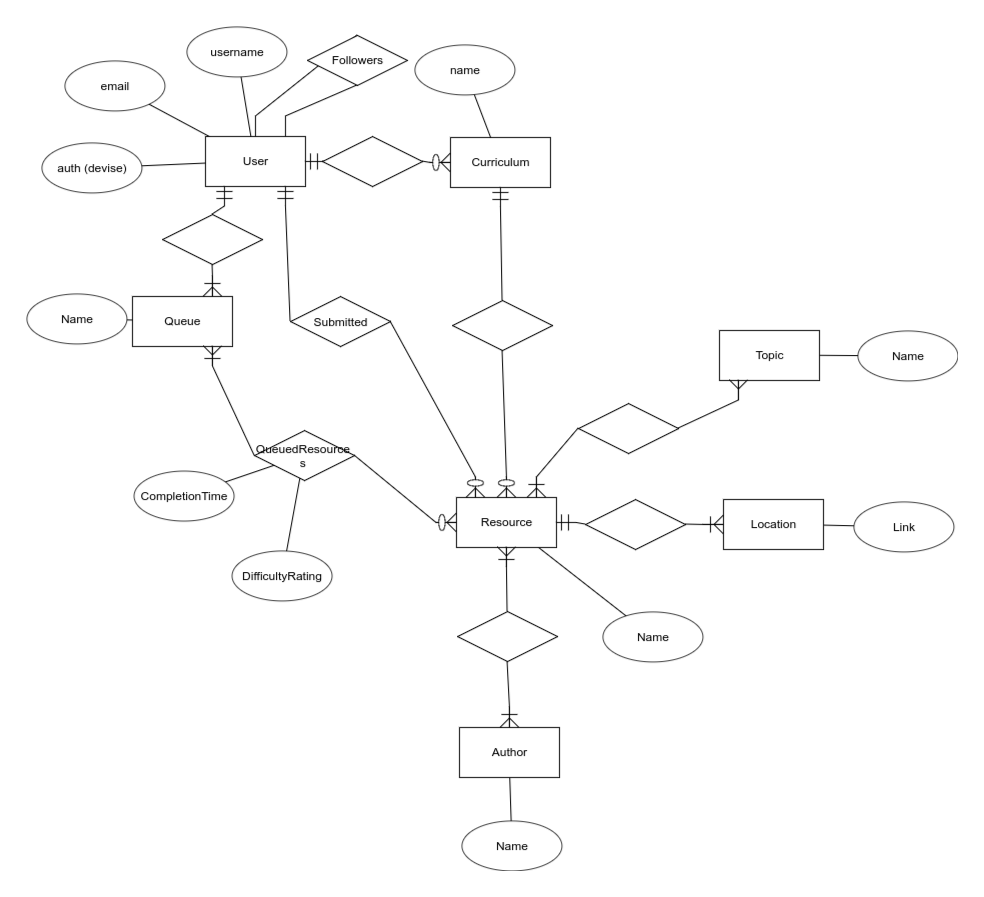
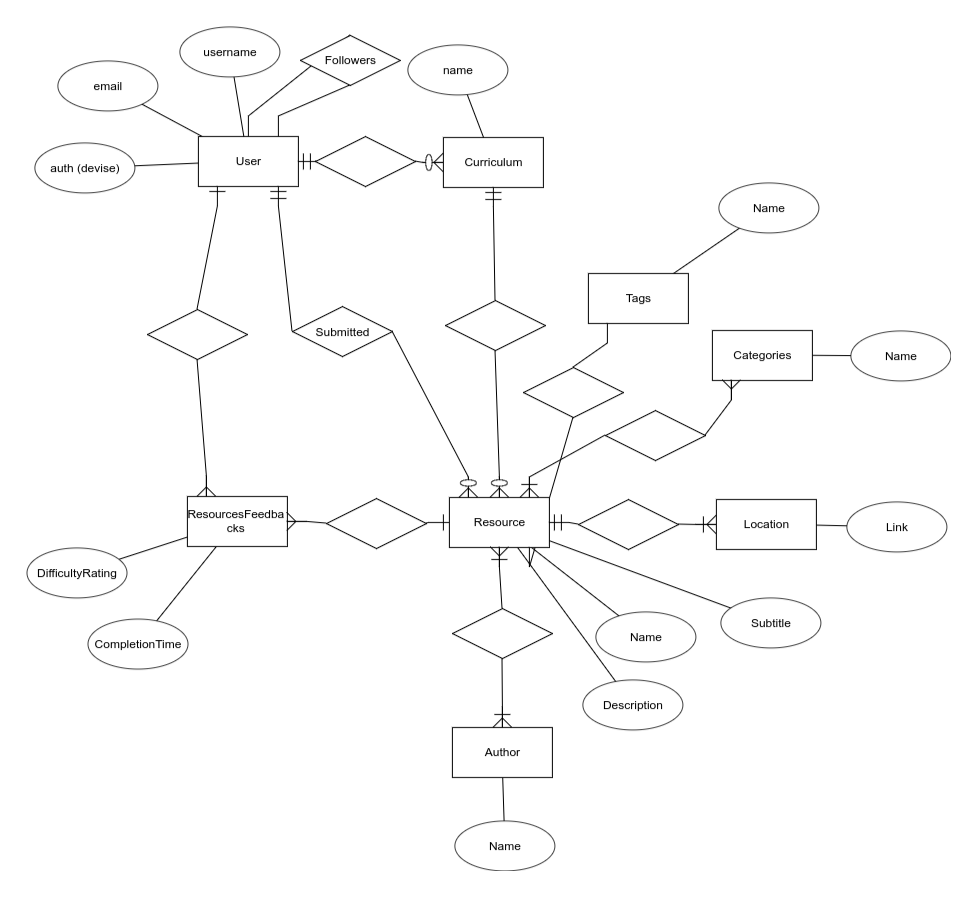
Implement new learning resource form

diff --git a/app/assets/stylesheets/resources.scss b/app/assets/stylesheets/resources.scss
@@ -1,0 +1,3 @@
+// Place all the styles related to the resources controller here.
+// They will automatically be included in application.css.
+// You can use Sass (SCSS) here: http://sass-lang.com/

diff --git a/config/initializers/simple_form_bootstrap.rb b/config/initializers/simple_form_bootstrap.rb
@@ -1,0 +1,149 @@
+# Use this setup block to configure all options available in SimpleForm.
+SimpleForm.setup do |config|
+  config.error_notification_class = 'alert alert-danger'
+  config.button_class = 'btn btn-default'
+  config.boolean_label_class = nil
+
+  config.wrappers :vertical_form, tag: 'div', class: 'form-group', error_class: 'has-error' do |b|
+    b.use :html5
+    b.use :placeholder
+    b.optional :maxlength
+    b.optional :pattern
+    b.optional :min_max
+    b.optional :readonly
+    b.use :label, class: 'control-label'
+
+    b.use :input, class: 'form-control'
+    b.use :error, wrap_with: { tag: 'span', class: 'help-block' }
+    b.use :hint,  wrap_with: { tag: 'p', class: 'help-block' }
+  end
+
+  config.wrappers :vertical_file_input, tag: 'div', class: 'form-group', error_class: 'has-error' do |b|
+    b.use :html5
+    b.use :placeholder
+    b.optional :maxlength
+    b.optional :readonly
+    b.use :label, class: 'control-label'
+
+    b.use :input
+    b.use :error, wrap_with: { tag: 'span', class: 'help-block' }
+    b.use :hint,  wrap_with: { tag: 'p', class: 'help-block' }
+  end
+
+  config.wrappers :vertical_boolean, tag: 'div', class: 'form-group', error_class: 'has-error' do |b|
+    b.use :html5
+    b.optional :readonly
+
+    b.wrapper tag: 'div', class: 'checkbox' do |ba|
+      ba.use :label_input
+    end
+
+    b.use :error, wrap_with: { tag: 'span', class: 'help-block' }
+    b.use :hint,  wrap_with: { tag: 'p', class: 'help-block' }
+  end
+
+  config.wrappers :vertical_radio_and_checkboxes, tag: 'div', class: 'form-group', error_class: 'has-error' do |b|
+    b.use :html5
+    b.optional :readonly
+    b.use :label, class: 'control-label'
+    b.use :input
+    b.use :error, wrap_with: { tag: 'span', class: 'help-block' }
+    b.use :hint,  wrap_with: { tag: 'p', class: 'help-block' }
+  end
+
+  config.wrappers :horizontal_form, tag: 'div', class: 'form-group', error_class: 'has-error' do |b|
+    b.use :html5
+    b.use :placeholder
+    b.optional :maxlength
+    b.optional :pattern
+    b.optional :min_max
+    b.optional :readonly
+    b.use :label, class: 'col-sm-3 control-label'
+
+    b.wrapper tag: 'div', class: 'col-sm-9' do |ba|
+      ba.use :input, class: 'form-control'
+      ba.use :error, wrap_with: { tag: 'span', class: 'help-block' }
+      ba.use :hint,  wrap_with: { tag: 'p', class: 'help-block' }
+    end
+  end
+
+  config.wrappers :horizontal_file_input, tag: 'div', class: 'form-group', error_class: 'has-error' do |b|
+    b.use :html5
+    b.use :placeholder
+    b.optional :maxlength
+    b.optional :readonly
+    b.use :label, class: 'col-sm-3 control-label'
+
+    b.wrapper tag: 'div', class: 'col-sm-9' do |ba|
+      ba.use :input
+      ba.use :error, wrap_with: { tag: 'span', class: 'help-block' }
+      ba.use :hint,  wrap_with: { tag: 'p', class: 'help-block' }
+    end
+  end
+
+  config.wrappers :horizontal_boolean, tag: 'div', class: 'form-group', error_class: 'has-error' do |b|
+    b.use :html5
+    b.optional :readonly
+
+    b.wrapper tag: 'div', class: 'col-sm-offset-3 col-sm-9' do |wr|
+      wr.wrapper tag: 'div', class: 'checkbox' do |ba|
+        ba.use :label_input
+      end
+
+      wr.use :error, wrap_with: { tag: 'span', class: 'help-block' }
+      wr.use :hint,  wrap_with: { tag: 'p', class: 'help-block' }
+    end
+  end
+
+  config.wrappers :horizontal_radio_and_checkboxes, tag: 'div', class: 'form-group', error_class: 'has-error' do |b|
+    b.use :html5
+    b.optional :readonly
+
+    b.use :label, class: 'col-sm-3 control-label'
+
+    b.wrapper tag: 'div', class: 'col-sm-9' do |ba|
+      ba.use :input
+      ba.use :error, wrap_with: { tag: 'span', class: 'help-block' }
+      ba.use :hint,  wrap_with: { tag: 'p', class: 'help-block' }
+    end
+  end
+
+  config.wrappers :inline_form, tag: 'div', class: 'form-group', error_class: 'has-error' do |b|
+    b.use :html5
+    b.use :placeholder
+    b.optional :maxlength
+    b.optional :pattern
+    b.optional :min_max
+    b.optional :readonly
+    b.use :label, class: 'sr-only'
+
+    b.use :input, class: 'form-control'
+    b.use :error, wrap_with: { tag: 'span', class: 'help-block' }
+    b.use :hint,  wrap_with: { tag: 'p', class: 'help-block' }
+  end
+
+  config.wrappers :multi_select, tag: 'div', class: 'form-group', error_class: 'has-error' do |b|
+    b.use :html5
+    b.optional :readonly
+    b.use :label, class: 'control-label'
+    b.wrapper tag: 'div', class: 'form-inline' do |ba|
+      ba.use :input, class: 'form-control'
+      ba.use :error, wrap_with: { tag: 'span', class: 'help-block' }
+      ba.use :hint,  wrap_with: { tag: 'p', class: 'help-block' }
+    end
+  end
+  # Wrappers for forms and inputs using the Bootstrap toolkit.
+  # Check the Bootstrap docs (http://getbootstrap.com)
+  # to learn about the different styles for forms and inputs,
+  # buttons and other elements.
+  config.default_wrapper = :vertical_form
+  config.wrapper_mappings = {
+    check_boxes: :vertical_radio_and_checkboxes,
+    radio_buttons: :vertical_radio_and_checkboxes,
+    file: :vertical_file_input,
+    boolean: :vertical_boolean,
+    datetime: :multi_select,
+    date: :multi_select,
+    time: :multi_select
+  }
+end

diff --git a/app/models/resource.rb b/app/models/resource.rb
@@ -1,14 +1,18 @@
+
 class Resource < ApplicationRecord
-  has_many :resources_tags
-  has_many :tags, through: :resources_tags
+  enum media_types: [:video, :interactive, :reading]
 
-  belongs_to :category
-
-  has_many :links
-
+  belongs_to :category, optional: true
   belongs_to :submitter, class_name: "User"
-  has_many :feedbacks, as: :feedbackable
 
   has_many :curriculums_resources
   has_many :curriculums, through: :curriculums_resources
+
+  has_many :feedbacks, as: :feedbackable
+
+  has_many :links
+
+  has_many :resources_tags
+  has_many :tags, through: :resources_tags
+
 end

diff --git a/spec/helpers/resources_helper_spec.rb b/spec/helpers/resources_helper_spec.rb
@@ -1,0 +1,15 @@
+require 'rails_helper'
+
+# Specs in this file have access to a helper object that includes
+# the ResourcesHelper. For example:
+#
+# describe ResourcesHelper do
+#   describe "string concat" do
+#     it "concats two strings with spaces" do
+#       expect(helper.concat_strings("this","that")).to eq("this that")
+#     end
+#   end
+# end
+RSpec.describe ResourcesHelper, type: :helper do
+  pending "add some examples to (or delete) #{__FILE__}"
+end

diff --git a/spec/controllers/resources_controller_spec.rb b/spec/controllers/resources_controller_spec.rb
@@ -1,0 +1,19 @@
+require 'rails_helper'
+
+RSpec.describe ResourcesController, type: :controller do
+
+  describe "GET #new" do
+    it "returns http success" do
+      get :new
+      expect(response).to have_http_status(:success)
+    end
+  end
+
+  describe "GET #show" do
+    it "returns http success" do
+      get :show
+      expect(response).to have_http_status(:success)
+    end
+  end
+
+end

diff --git a/config/routes.rb b/config/routes.rb
@@ -1,4 +1,7 @@
+
 Rails.application.routes.draw do
+
+  resources :resources, only: [:new, :create, :show]
+
   devise_for :users
-  # For details on the DSL available within this file, see http://guides.rubyonrails.org/routing.html
 end

diff --git a/spec/views/resources/show.html.erb_spec.rb b/spec/views/resources/show.html.erb_spec.rb
@@ -1,0 +1,5 @@
+require 'rails_helper'
+
+RSpec.describe "resources/show.html.erb", type: :view do
+  pending "add some examples to (or delete) #{__FILE__}"
+end

diff --git a/spec/views/resources/new.html.erb_spec.rb b/spec/views/resources/new.html.erb_spec.rb
@@ -1,0 +1,5 @@
+require 'rails_helper'
+
+RSpec.describe "resources/new.html.erb", type: :view do
+  pending "add some examples to (or delete) #{__FILE__}"
+end

diff --git a/app/controllers/resources_controller.rb b/app/controllers/resources_controller.rb
@@ -1,0 +1,10 @@
+class ResourcesController < ApplicationController
+
+  def new
+    @resource = Resource.new
+  end
+
+  def show
+  end
+
+end

diff --git a/app/helpers/resources_helper.rb b/app/helpers/resources_helper.rb
@@ -1,0 +1,2 @@
+module ResourcesHelper
+end
